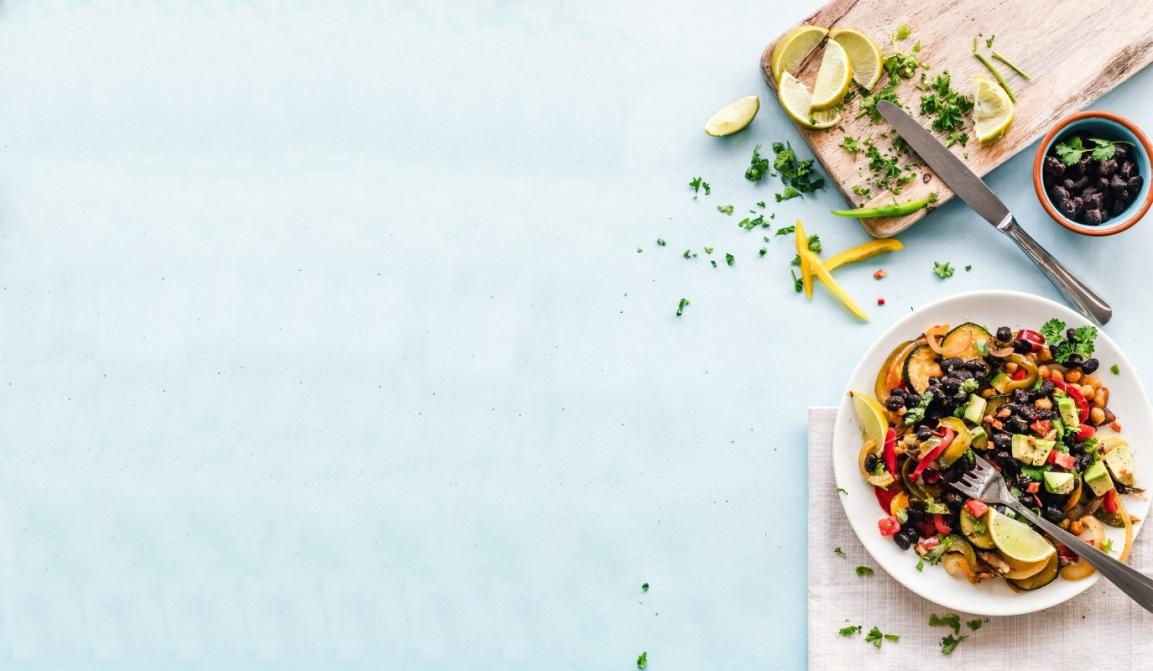
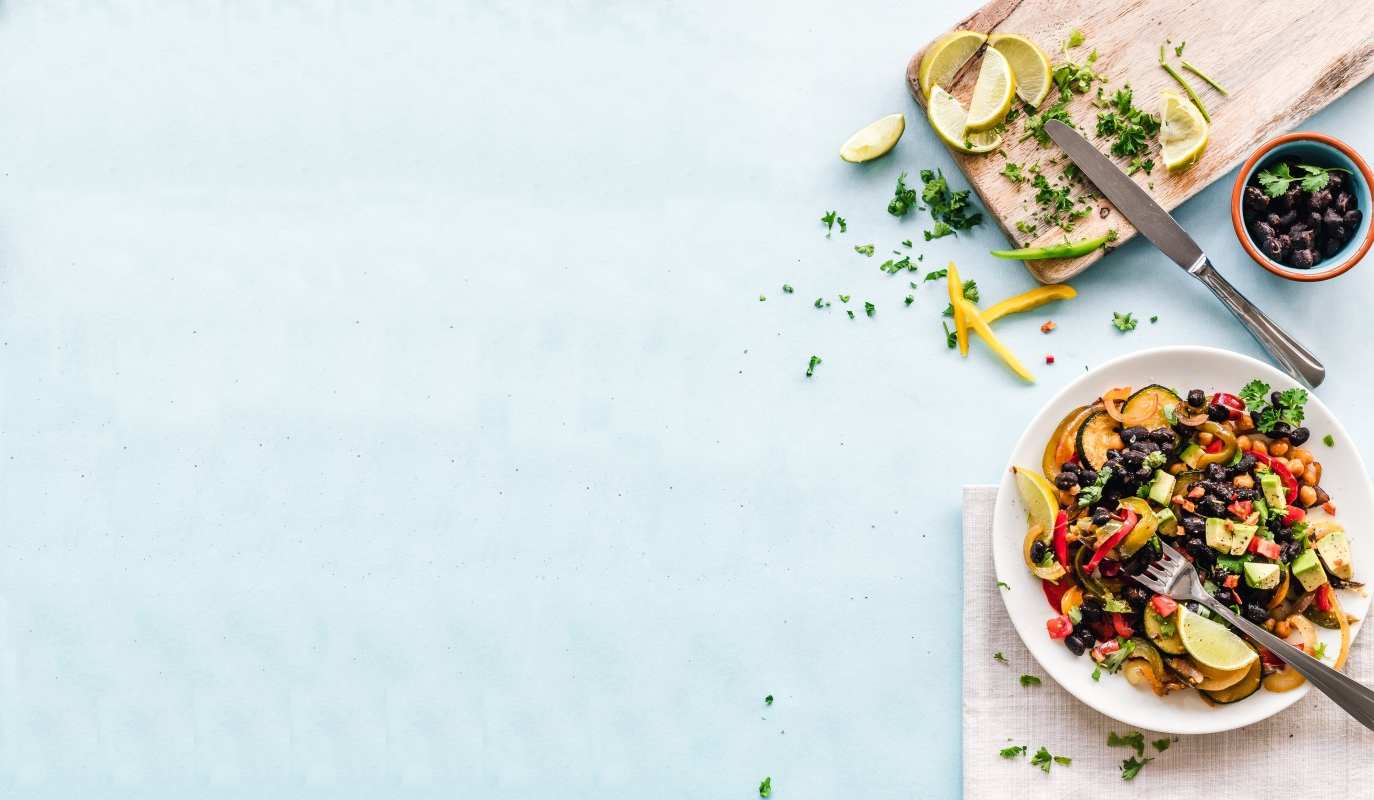
Detalls visuals
El color primary passa a ser el LightPrimary
Afegits els colors LightPrimary, DarkPrimary i LightSecondary
Augment de qualitat de la foto de fons
Logo actualitzat
Fletxes pantalla search actualitzades

diff --git a/css/main.css b/css/main.css
@@ -2,7 +2,10 @@
 	background: #fafafa;
 }
 :root {
-    --primaryColor: #CCFF90;
+    --primaryLightColor: #CCFF90;
+    --primaryColor: #7ca8a1;
+    --primaryDarkColor: #0a7879;
+    --secondaryLightColor: #f4a363;
     --secondaryColor: #FFD740;
     --sans-serif: Verdana, Geneva, sans-serif;
     --serif: Georgia, serif;
